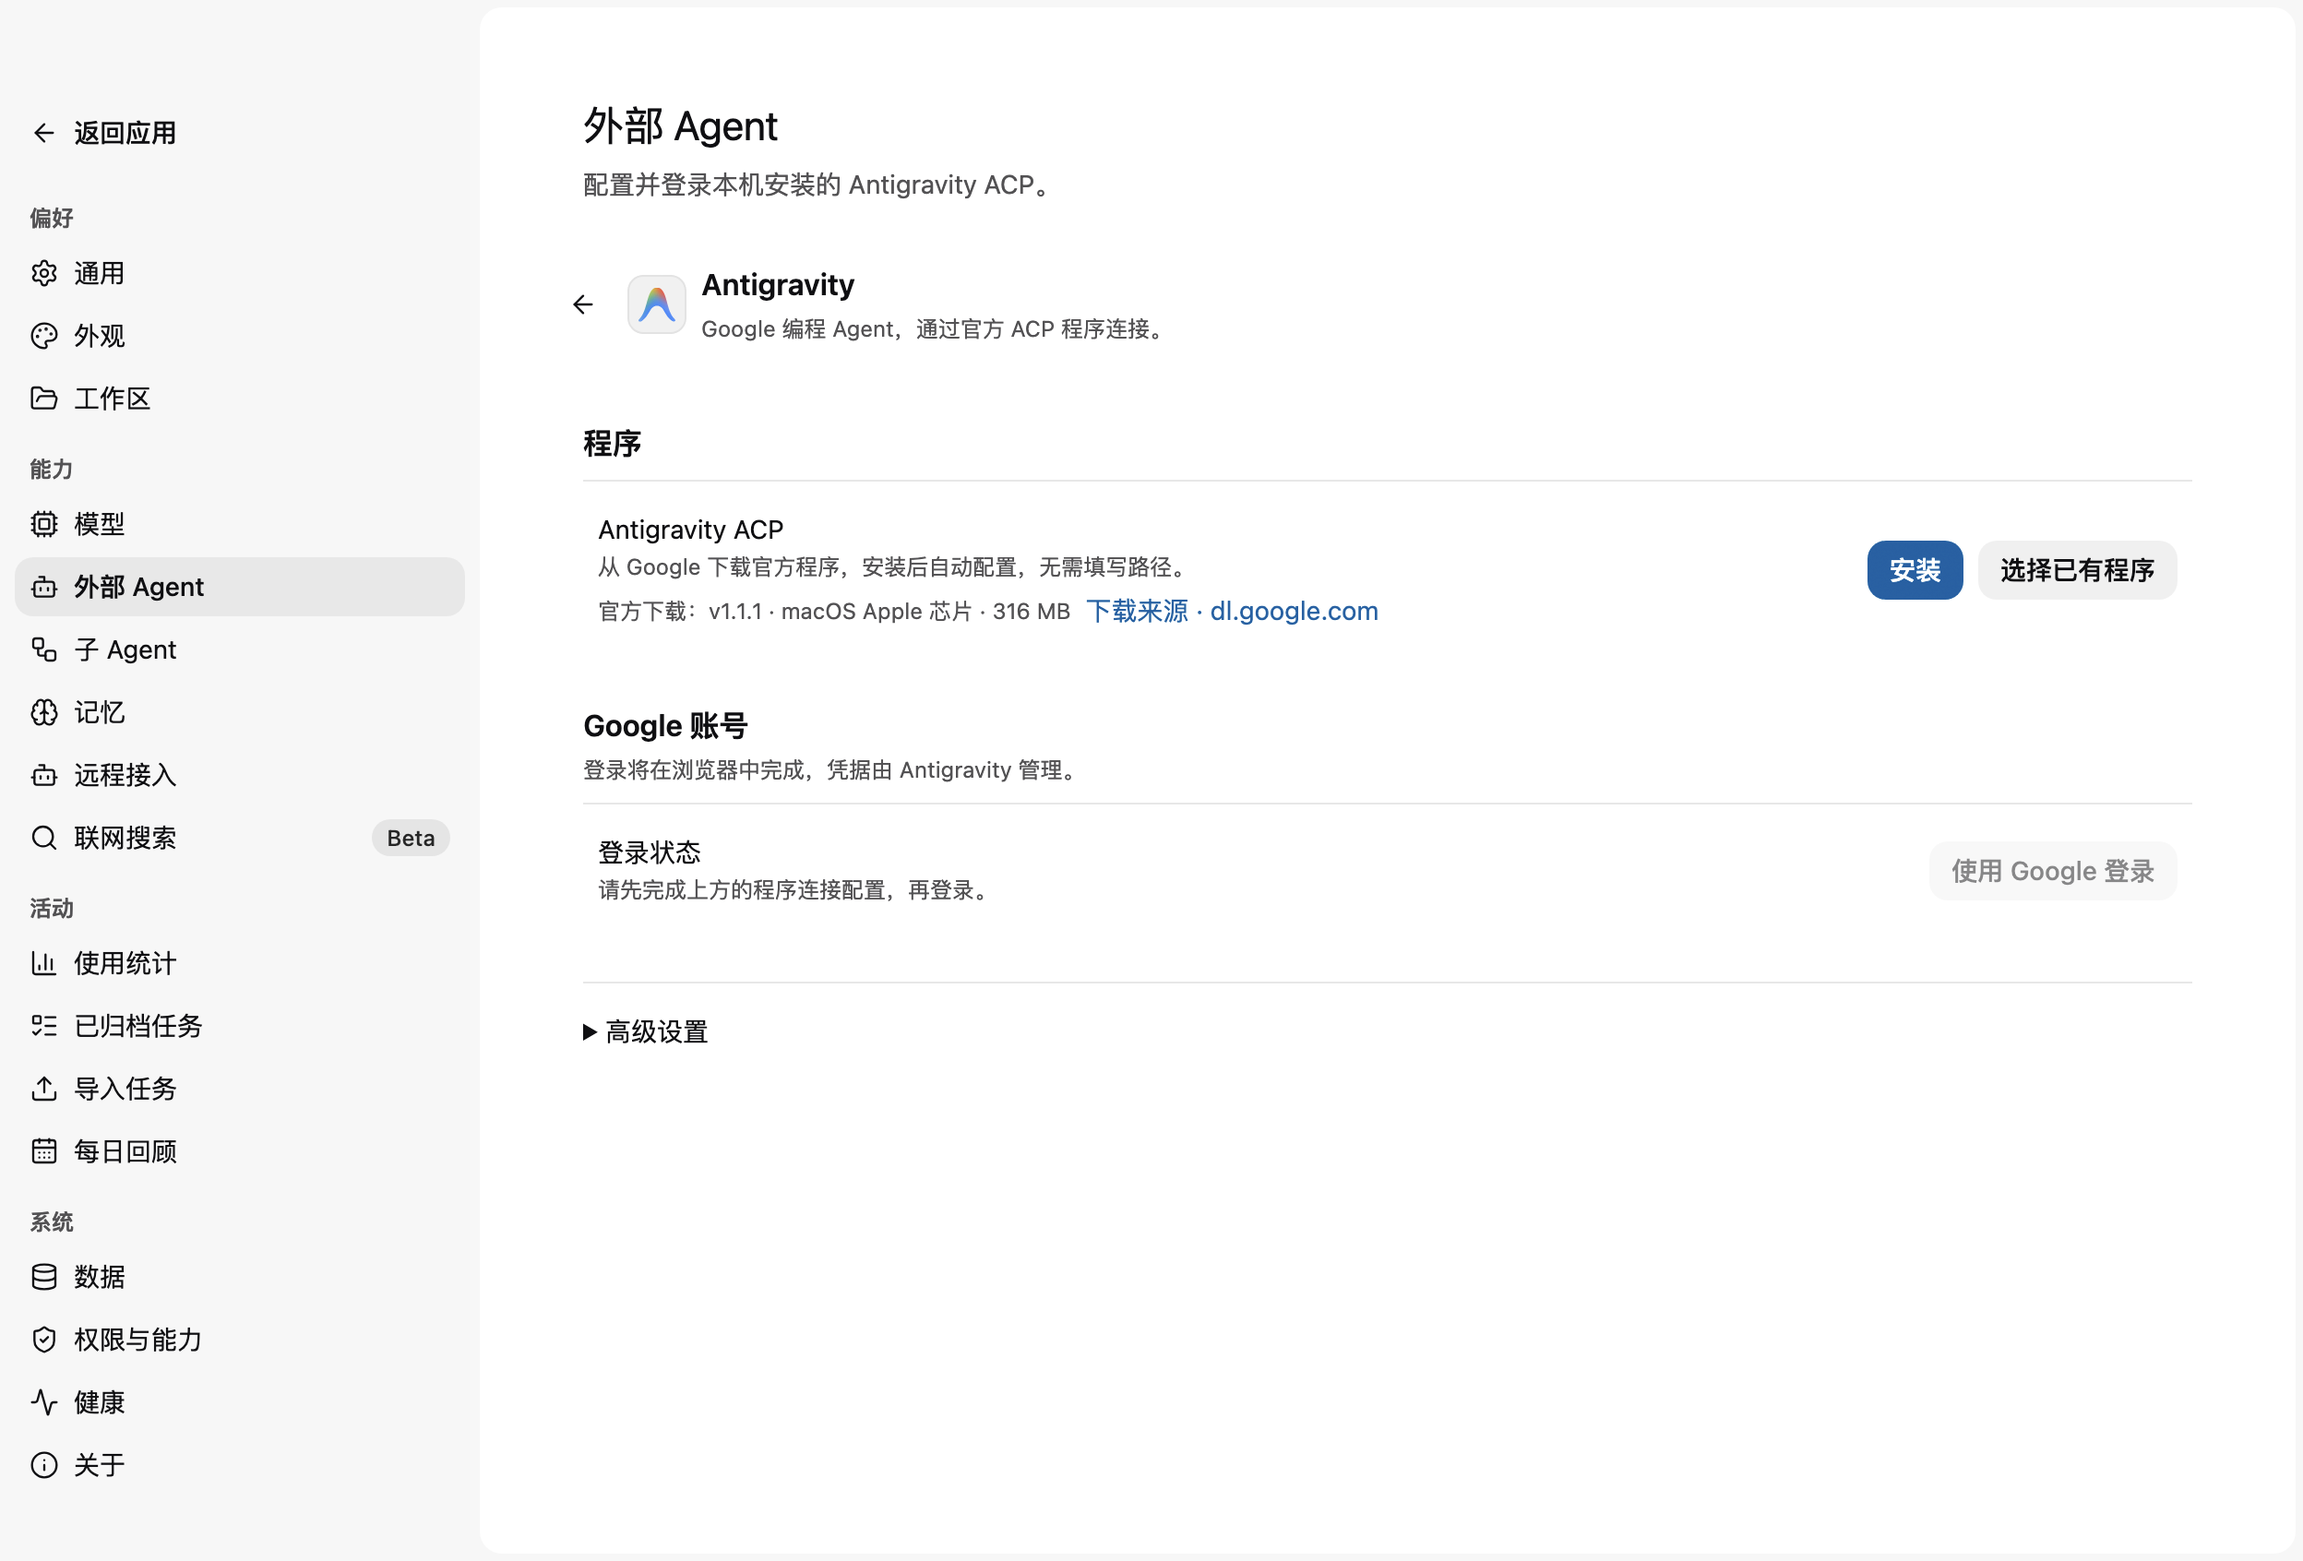
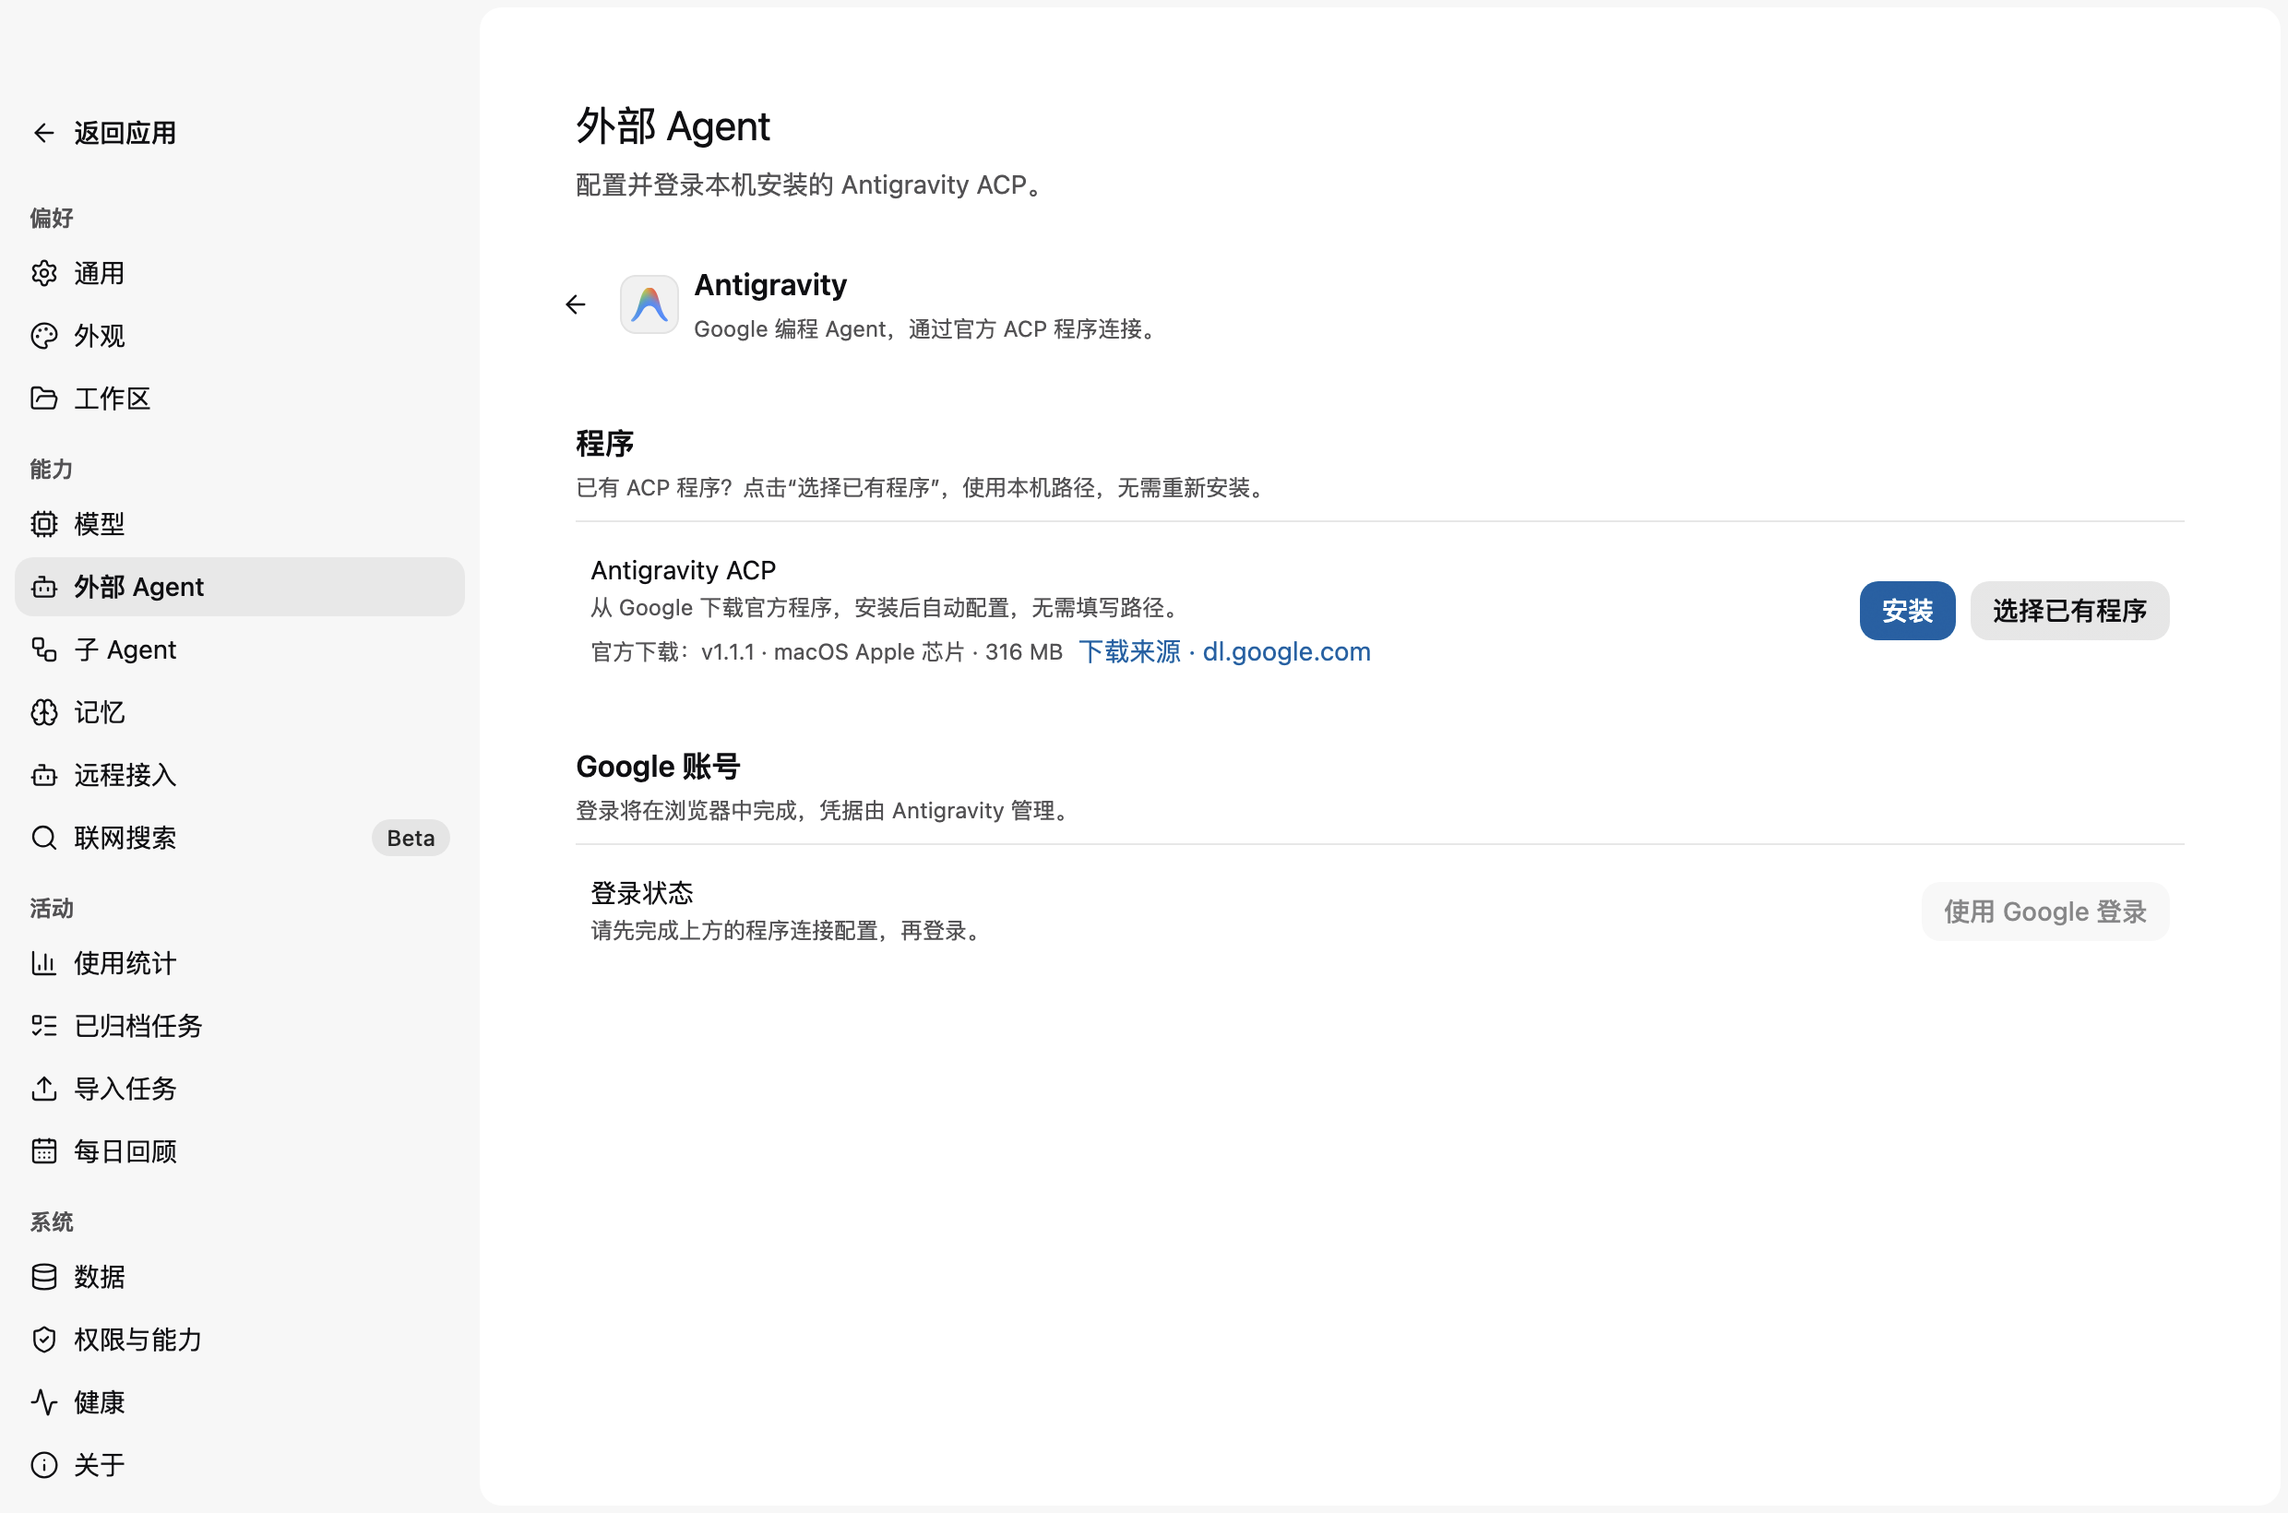
fix(desktop): expose existing ACP selection without advanced settings
Keep installation and existing-program selection visible in the Program section. Show path confirmation only after selection, remove the redundant advanced foldout, and refresh current UI screenshots.

Generated-by: Codex

diff --git a/apps/desktop/src/renderer/features/external-agent-settings/page.tsx b/apps/desktop/src/renderer/features/external-agent-settings/page.tsx
@@ -289,7 +289,7 @@ function AntigravitySetup(props: Props & { onBack(): void }) {
             ? 'primary'
             : 'secondary'
         }
-        label={retryAction === action ? copy.retry : action === 'install' ? copy.install : action === 'check' ? copy.check : current?.action === 'login' && current.phase === 'succeeded' ? copy.reverify : copy.login}
+        label={retryAction === action ? copy.retry : action === 'install' ? saved ? copy.reinstall : copy.install : action === 'check' ? copy.check : current?.action === 'login' && current.phase === 'succeeded' ? copy.reverify : copy.login}
         isDisabled={busy || (action === 'install' ? !available || editingPath || path !== saved : !canStart)}
         onClick={() => void start(action)}
       />
@@ -322,7 +322,7 @@ function AntigravitySetup(props: Props & { onBack(): void }) {
           }}
         />
       )}
-      <SettingsSection title={copy.programTitle}>
+      <SettingsSection title={copy.programTitle} description={copy.existingProgramHelp}>
         <SettingsRow
           label={copy.programName}
           description={
@@ -341,28 +341,12 @@ function AntigravitySetup(props: Props & { onBack(): void }) {
           }
           end={
             <HStack gap={2} vAlign="center">
-              {!saved && setupAction('install')}
-              {!saved && <Button variant="secondary" label={copy.selectExisting} isDisabled={busy || !available} onClick={() => void selectExisting()} />}
+              {setupAction('install')}
+              <Button variant="secondary" label={copy.selectExisting} isDisabled={busy || !available} onClick={() => void selectExisting()} />
             </HStack>
           }
         />
-        {saved && <SettingsRow
-          label={copy.connectionStatus}
-          description={<span role="status" aria-live="polite">{editingPath ? copy.unsaved : current?.action === 'check' ? status : connectionVerified ? copy.connectionVerified : copy.unchecked}</span>}
-          end={setupAction('check')}
-        />}
-      </SettingsSection>
-      <SettingsSection title={copy.accountTitle} description={copy.accountDescription}>
-        <SettingsRow
-          label={copy.googleAccount}
-          description={<span role="status" aria-live="polite">{!saved || editingPath ? copy.accountBeforeSave : current?.action === 'login' ? status : copy.accountUnchecked}</span>}
-          end={setupAction('login')}
-        />
-      </SettingsSection>
-      <details className="externalAgentAdvanced" open={editingPath || undefined}>
-      <summary>{copy.advanced}</summary>
-      <SettingsSection>
-        {saved && <HStack gap={2} vAlign="center"><Button variant="secondary" label={copy.selectExisting} isDisabled={busy || !available} onClick={() => void selectExisting()} />{setupAction('install')}</HStack>}
+        {editingPath && (
         <SettingsExpandableRow
           label={copy.executable}
           value={
@@ -407,8 +391,21 @@ function AntigravitySetup(props: Props & { onBack(): void }) {
             {copy.downloadAcp}
           </Link>
         </SettingsExpandableRow>
+        )}
+        {saved && <SettingsRow
+          label={copy.connectionStatus}
+          description={<span role="status" aria-live="polite">{editingPath ? copy.unsaved : current?.action === 'check' ? status : connectionVerified ? copy.connectionVerified : copy.unchecked}</span>}
+          end={setupAction('check')}
+        />}
       </SettingsSection>
-      </details>
+      <SettingsSection title={copy.accountTitle} description={copy.accountDescription}>
+        <SettingsRow
+          label={copy.googleAccount}
+          description={<span role="status" aria-live="polite">{!saved || editingPath ? copy.accountBeforeSave : current?.action === 'login' ? status : copy.accountUnchecked}</span>}
+          end={setupAction('login')}
+        />
+      </SettingsSection>
+
     </SettingsPage>
   );
 }

diff --git a/apps/desktop/src/main/__tests__/external-agents-settings-page.test.ts b/apps/desktop/src/main/__tests__/external-agents-settings-page.test.ts
@@ -287,12 +287,14 @@ test('agent list uses a brand mark and opens a setup detail with a back action',
   assert.equal(page.document.querySelectorAll('input').length, 0);
 });
 
-test('saved program uses the model detail edit row and disables setup while editing', async () => {
+test('saved program exposes file selection and disables setup while confirming a new path', async () => {
   const page = await mount();
   assert.equal(page.document.querySelectorAll('input').length, 0);
-  assert.match(page.document.body.textContent ?? '', /Program path/);
-  await act(async () => page.button('Change').click());
-  assert.equal(page.document.querySelector('input')?.value, '/agent/agy_acp_server.par');
+  assert.equal(page.document.querySelector('details'), null);
+  assert.equal(page.button('Choose existing program').closest('details'), null);
+  assert.match(page.document.body.textContent ?? '', /Already have ACP/);
+  await act(async () => page.button('Choose existing program').click());
+  assert.equal(page.document.querySelector('input')?.value, '/existing/agy_acp_server.par');
   assert.equal(page.button('Check connection').disabled, true);
   assert.equal(page.button('Sign in with Google').disabled, true);
   await act(async () => page.button('Cancel').click());
@@ -335,10 +337,11 @@ test('a late installed result never overwrites a newer saved configuration', asy
 });
 
 test('choosing an existing executable presents its path for saving without installing', async () => {
-  const page = await mount({ executable: '' });
+  const page = await mount();
+  assert.equal(page.button('Choose existing program').closest('details'), null);
   await act(async () => page.button('Choose existing program').click());
   assert.equal(page.document.querySelector('input')?.value, '/existing/agy_acp_server.par');
-  assert.equal(page.button('Install').disabled, true);
+  assert.equal(page.button('Reinstall').disabled, true);
   await act(async () => page.button('Save').click());
   assert.deepEqual(page.updates, ['/existing/agy_acp_server.par']);
   assert.deepEqual(page.starts, []);

diff --git a/apps/desktop/src/renderer/locales/settings-external-agents-copy.ts b/apps/desktop/src/renderer/locales/settings-external-agents-copy.ts
@@ -26,7 +26,8 @@ const en = {
   installHelp: "Download the official program from Google and configure its path automatically.",
   programConfigured: "A program path is saved. Check the connection to verify it is available.",
   selectExisting: "Choose existing program",
-  advanced: "Advanced settings",
+  existingProgramHelp: "Already have ACP? Choose your existing program to use its local path without reinstalling.",
+  reinstall: "Reinstall",
   source: "Download source",
   release: "Official download: v1.1.1 · macOS Apple Silicon · 316 MB",
   downloading: "Downloading official ACP…",
@@ -108,7 +109,8 @@ const zh = {
   installHelp: "从 Google 下载官方程序，安装后自动配置，无需填写路径。",
   programConfigured: "已保存程序位置，可检查连接以确认程序可用。",
   selectExisting: "选择已有程序",
-  advanced: "高级设置",
+  existingProgramHelp: "已有 ACP 程序？点击“选择已有程序”，使用本机路径，无需重新安装。",
+  reinstall: "重新安装",
   source: "下载来源",
   release: "官方下载：v1.1.1 · macOS Apple 芯片 · 316 MB",
   downloading: "正在下载官方 ACP…",
@@ -182,7 +184,8 @@ const zhTW: typeof en = {
   installHelp: "從 Google 下載官方程式，安裝後自動設定，無需填寫路徑。",
   programConfigured: "已儲存程式位置，可檢查連線以確認程式可用。",
   selectExisting: "選擇已有程式",
-  advanced: "進階設定",
+  existingProgramHelp: "已有 ACP 程式？點擊「選擇已有程式」，使用本機路徑，無需重新安裝。",
+  reinstall: "重新安裝",
   source: "下載來源",
   release: "官方下載：v1.1.1 · macOS Apple 晶片 · 316 MB",
   downloading: "正在下載官方 ACP…",

diff --git a/apps/desktop/src/renderer/styles/settings/provider-editor.css b/apps/desktop/src/renderer/styles/settings/provider-editor.css
@@ -60,15 +60,6 @@
   }
 }
 
-.externalAgentAdvanced {
-  border-top: 1px solid var(--border);
-}
-
-.externalAgentAdvanced > summary {
-  cursor: pointer;
-  padding-block: 16px;
-}
-
 .externalAgentRelease {
   display: flex;
   flex-wrap: wrap;

diff --git a/docs/antigravity-acp-settings.md b/docs/antigravity-acp-settings.md
@@ -21,7 +21,7 @@
 
 Settings → External Agents configures Antigravity on a local macOS arm64 Runtime Host. Install downloads Google's pinned ACP 1.1.1 distribution, verifies the archive and both executables, extracts into the Host state root under `external-agents/antigravity/1.1.1`, checks the connection, and saves the executable path through the existing Settings mutation. Download source links directly to Google's archive. The existing RuntimePolicy proxy configuration is used for downloads.
 
-Already-installed programs can be selected with the native file picker and saved; advanced settings retain manual path entry. A saved path is read on reopening but is not an authentication claim. There is no disk-wide or PATH discovery. The installer reuses a matching verified managed version without another download. Existing custom paths are only replaced by an explicit install/save action, and late install responses cannot replace newer configuration. The Antigravity desktop application alone does not provide this ACP connection.
+The Program section always shows Choose existing program beside Install/Reinstall, with a visible explanation that existing ACP installations can be reused. Selecting a file opens an inline path confirmation/editor with Save and Cancel. There is no Advanced settings foldout; the full path stays hidden outside confirmation. A saved path is read on reopening but is not an authentication claim. There is no disk-wide or PATH discovery. The installer reuses a matching verified managed version without another download. Existing custom paths are only replaced by an explicit install/save action, and late install responses cannot replace newer configuration. The Antigravity desktop application alone does not provide this ACP connection.
 
 Only the executable path is persisted in RuntimePolicy document schema 4. Schemas 2 and 3 migrate with an empty path. Setup requests compare the saved path before admission; editing it invalidates displayed results. Connection success does not establish authentication. Official credentials remain under the official process's control, outside Maka's credential store.
 
@@ -101,3 +101,6 @@ Google login reached browser authorization and then the actual Desktop terminal 
 ![Current Desktop: successful Google login](images/pr/antigravity-current-login-success.png)
 
 This completes the revised acceptance requested by the user: existing verified program → Settings save → connection → login → cancel → retry/login. It does not claim a fresh full archive download or automatic path save in this run; those remain covered by the earlier managed-install acceptance above. No raw authentication output, credentials or private account details were recorded.
+
+
+UI follow-up: removed the Advanced settings foldout and made existing-program selection visible in both configured and unconfigured states. The current renderer screenshots and 15 page tests cover the flattened layout, inline path confirmation and action guards.
